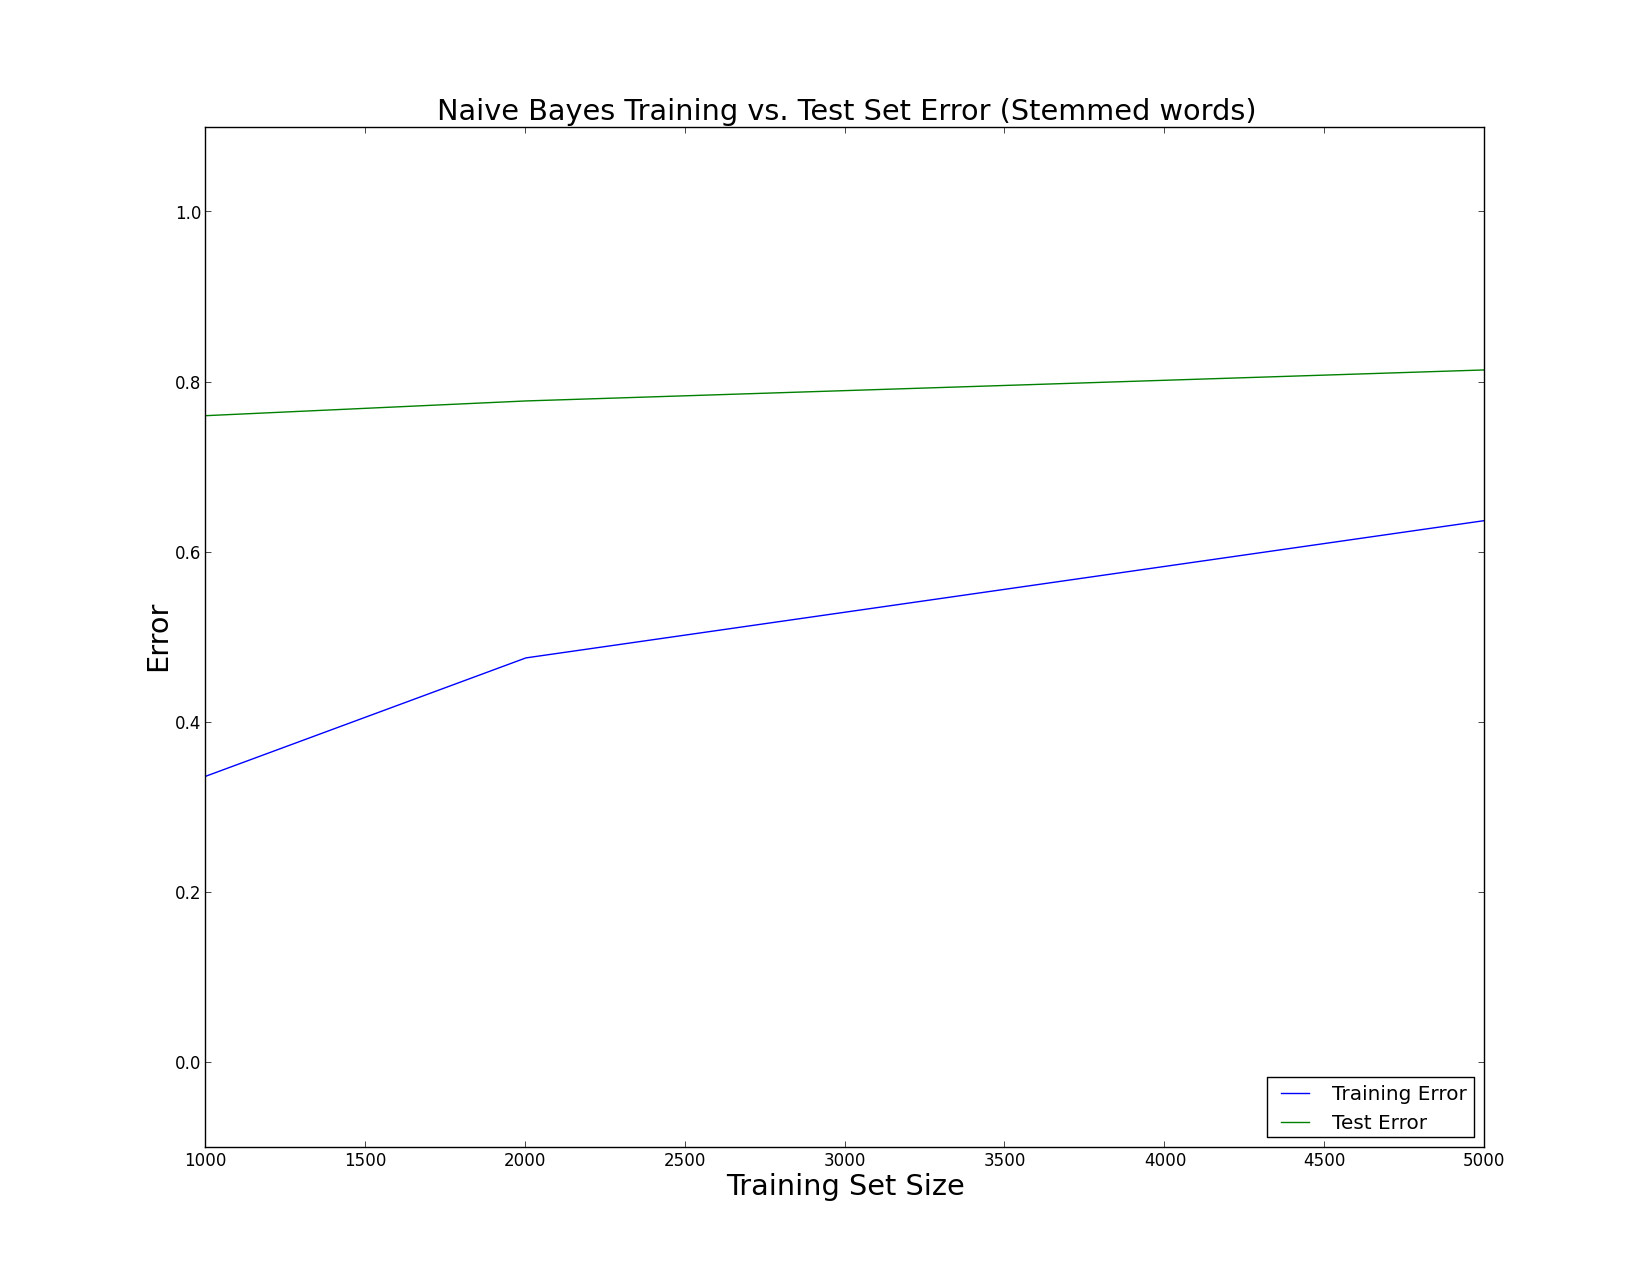
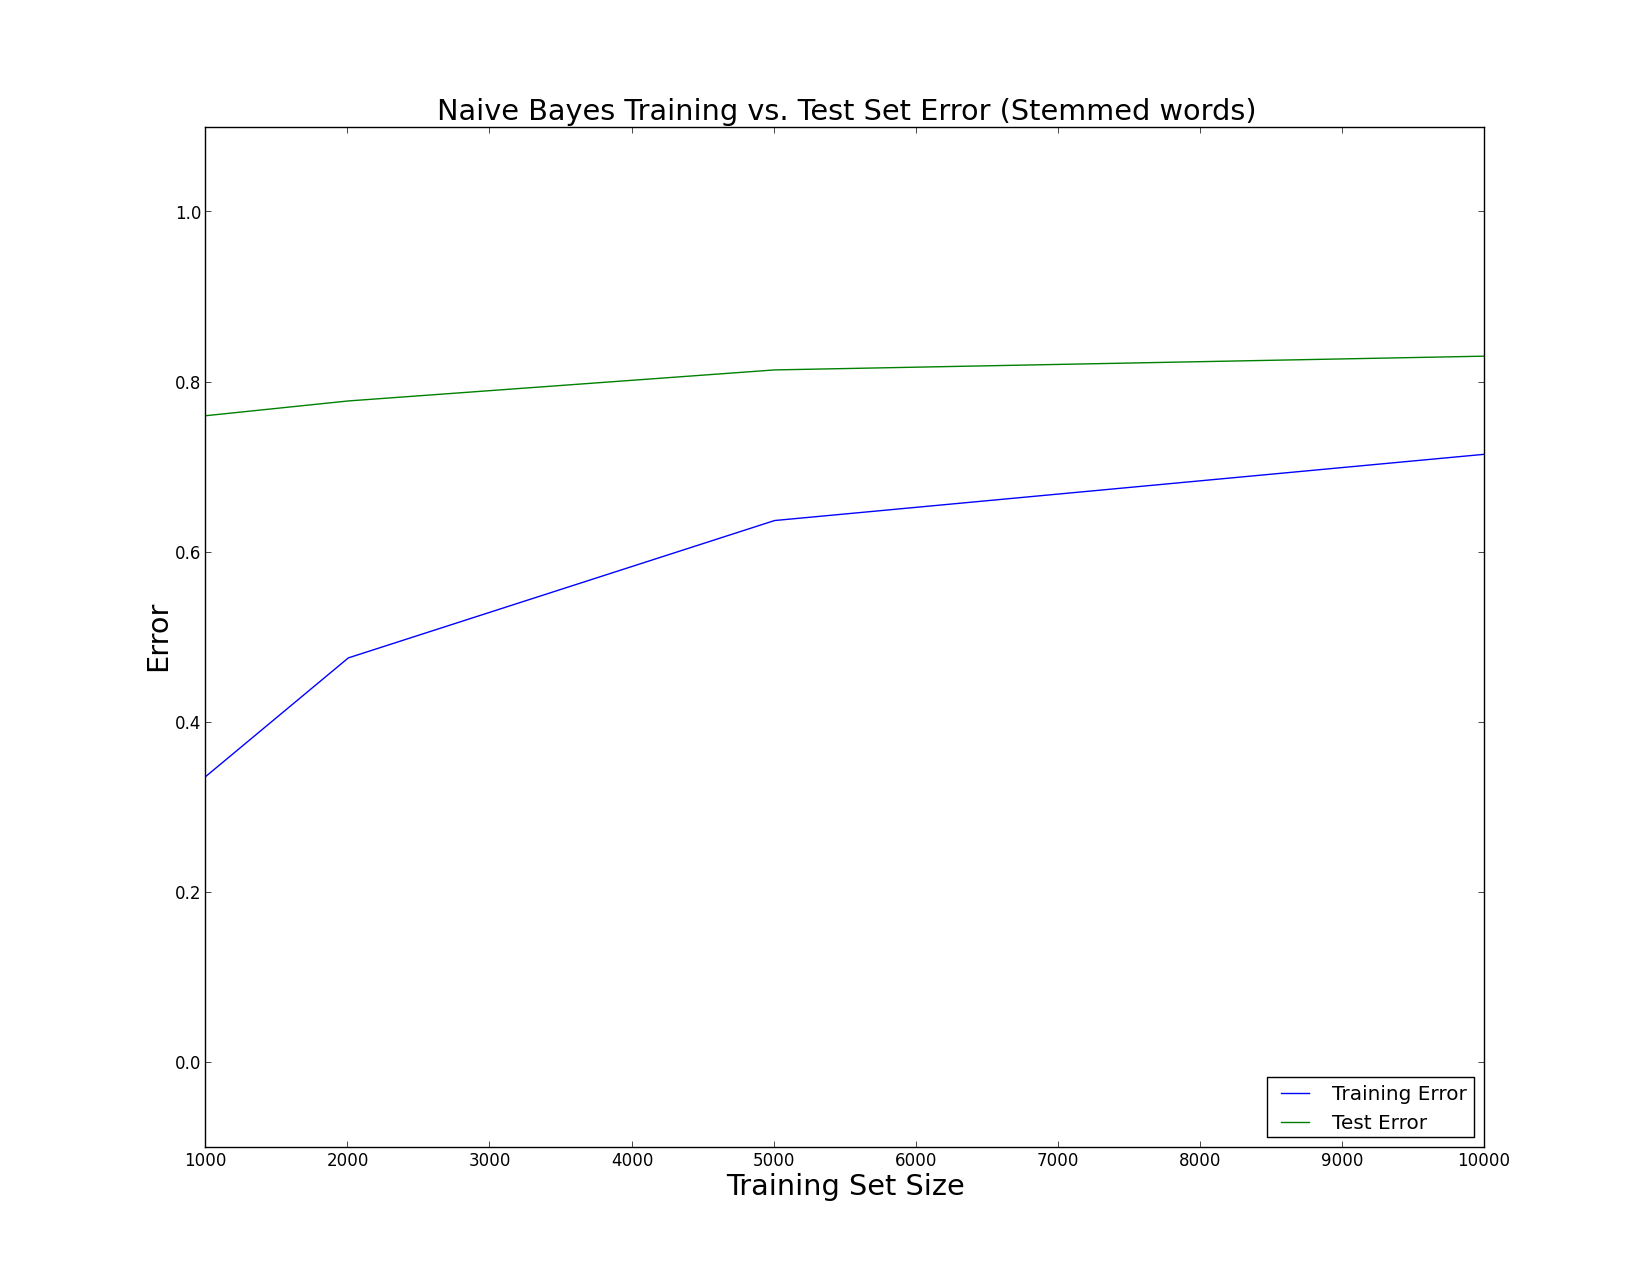
adding plot results for 10000

diff --git a/plot_linsvm_stem.py b/plot_linsvm_stem.py
@@ -17,10 +17,10 @@ def save(path):
 
 
 #1000,2000,5000
-test = [1.0 - 0.2100, 1.0 - 0.2116, 1.0 - 0.2308]
-train = [1.0 - 0.9810, 1.0 - 0.9685, 1.0 - 0.9502]
+test = [1.0 - 0.2100, 1.0 - 0.2116, 1.0 - 0.2308, 1.0 - 0.3015]
+train = [1.0 - 0.9810, 1.0 - 0.9685, 1.0 - 0.9502, 1.0 - 0.8886]
 
-x = [1000, 2000, 5000]
+x = [1000, 2000, 5000, 10000]
 
 l1, l2 = plt.plot(x, train, x, test)
 plt.legend([l1,l2],["Training Error", "Test Error"], loc=4)

diff --git a/plot_linsvm_no_stem.py b/plot_linsvm_no_stem.py
@@ -17,10 +17,10 @@ def save(path):
 
 
 #1000,2000,5000
-test = [1.0 - 0.2746, 1.0 - 0.2735, 1.0 - 0.2796]
-train = [1.0 - 1.000, 1.0 - 0.9995, 1.0 - 0.9984]
+test = [1.0 - 0.2746, 1.0 - 0.2735, 1.0 - 0.2796, 1.0 - 0.2807]
+train = [1.0 - 1.000, 1.0 - 0.9995, 1.0 - 0.9984, 1.0 - 0.9962]
 
-x = [1000, 2000, 5000]
+x = [1000, 2000, 5000, 10000]
 
 l1, l2 = plt.plot(x, train, x, test)
 plt.legend([l1,l2],["Training Error", "Test Error"], loc=4)

diff --git a/plot_nb_stem.py b/plot_nb_stem.py
@@ -17,11 +17,11 @@ def save(path):
 
 
 #1000,2000,5000
-test = [1.0-0.2390, 1.0-0.2217, 1.0-0.1852]
-train = [1.0-0.6630, 1.0-0.5240, 1.0-0.3624]
+test = [1.0-0.2390, 1.0-0.2217, 1.0-0.1852, 1.0-0.1690]
+train = [1.0-0.6630, 1.0-0.5240, 1.0-0.3624, 1.0-0.2844]
 plt.ylim((-0.1,1.1))
 
-x = [1000, 2000, 5000]
+x = [1000, 2000, 5000, 10000]
 
 l1, l2 = plt.plot(x, train, x, test)
 plt.legend([l1,l2],["Training Error", "Test Error"], loc=4)

diff --git a/plot_nb_no_stem.py b/plot_nb_no_stem.py
@@ -17,10 +17,10 @@ def save(path):
 
 
 #1000,2000,5000
-test = [1.0 - 0.2864, 1.0 - 0.3121, 1.0 - 0.3312]
-train = [1.0-0.6740, 1.0-0.6305, 1.0 - 0.5966]
+test = [1.0 - 0.2864, 1.0 - 0.3121, 1.0 - 0.3312, 1.0 - 0.3310]
+train = [1.0-0.6740, 1.0-0.6305, 1.0 - 0.5966, 1.0 - 0.5620]
 
-x = [1000, 2000, 5000]
+x = [1000, 2000, 5000, 10000]
 
 l1, l2 = plt.plot(x, train, x, test)
 plt.legend([l1,l2],["Training Error", "Test Error"], loc=4)
